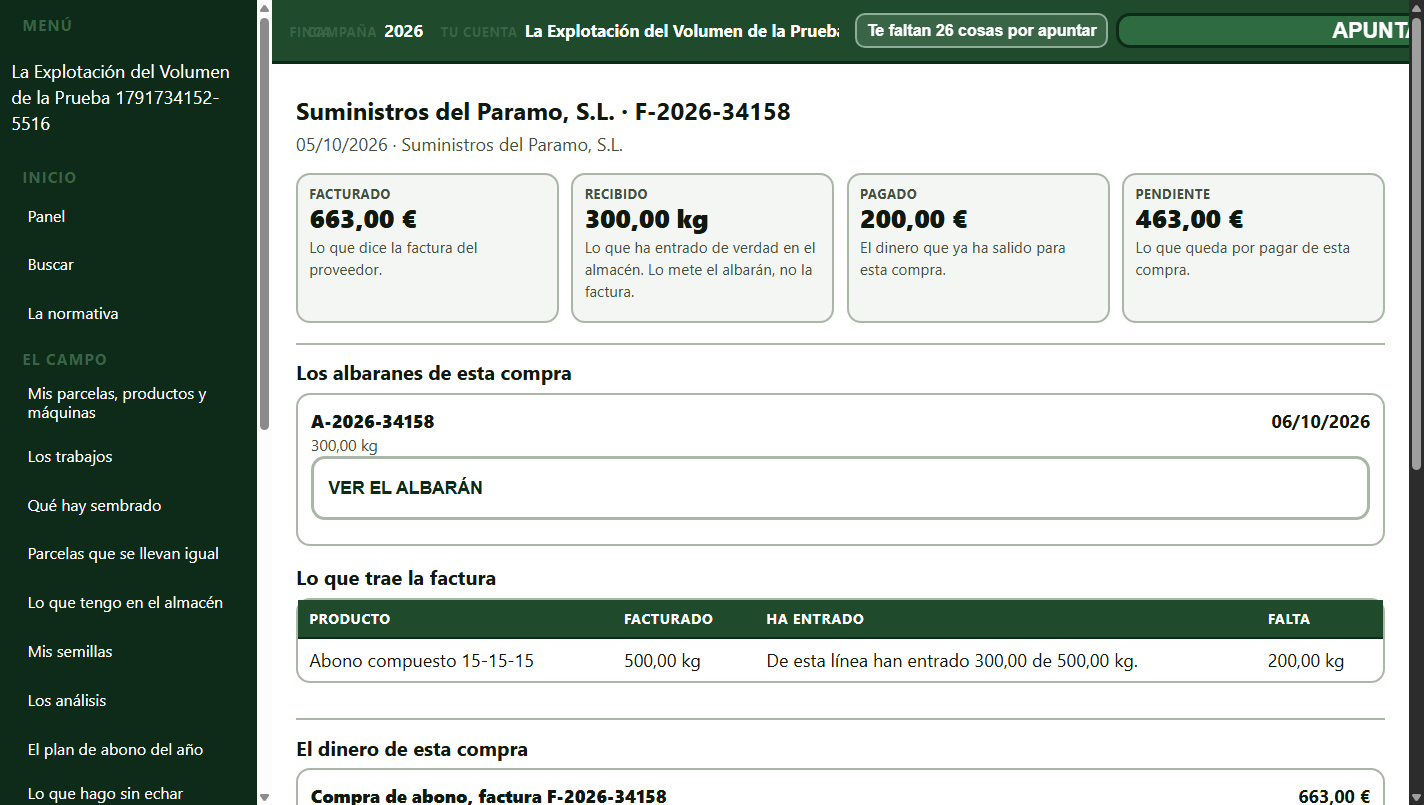
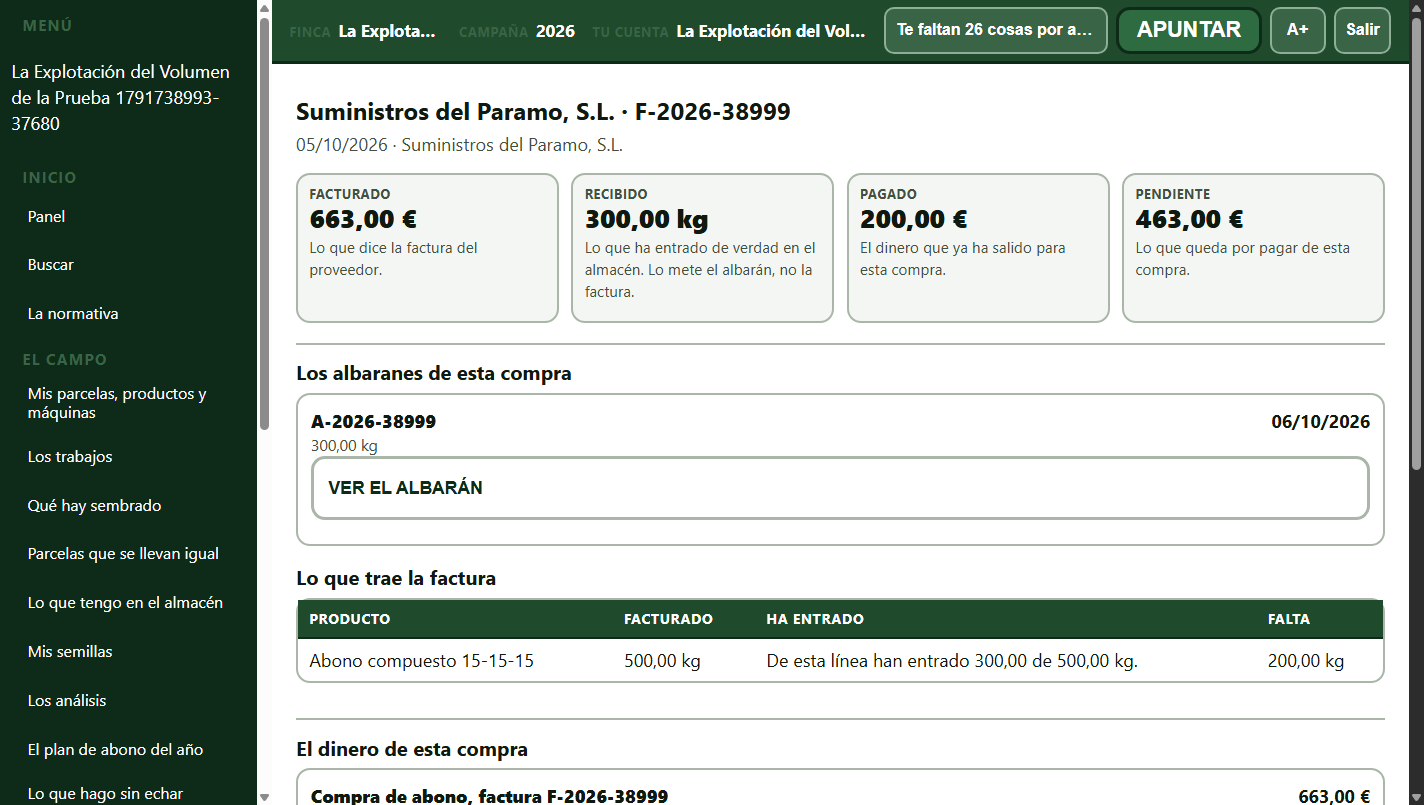
CRM-00: la barra de escritorio deja de cortar acciones. La medicion de visibilidad ahora exige el rectangulo entero dentro de la ventana y de los ancestros que recortan, y con ella queda reproducido el defecto: boton-principal estirado a 536px por el flex del movil empujaba A+ y Salir fuera; botones

diff --git a/backend/web/estilos.css b/backend/web/estilos.css
@@ -1713,9 +1713,12 @@ div.tarjeta:active {
 
   /* El botón de apuntar, en la barra: es la acción que más se usa y está siempre a la vista. */
   .marco .barra-acciones .boton {
-    /* 2.9rem eran ~46 px y, con el relleno, sacaban la barra de 64: **2.2rem cabe** y sigue siendo cómodo con
-       el ratón, que es como se usa esta barra (07/10/2026). */
-    min-height: 2.2rem;
+    /* **2,9 rem, que es lo que dice el diseño** (CRM-00, 11/10/2026). Aquí ponía 2,2 rem —unos 35 px— con
+       este motivo escrito: «2.9rem eran ~46 px y, con el relleno, sacaban la barra de 64». Medido hoy: el
+       relleno de esta barra es 0,2rem por arriba y por abajo, así que **46 + 6,4 = 52,4 y cabe en los 64**.
+       Y `DESIGN.md` es explícito: «los botones de la barra… miden 2,9 rem (unos 46 px)… **no se baja de
+       40**». Los 35 px de antes estaban por debajo de ese suelo, y el agricultor tiene entre 50 y 70 años. */
+    min-height: 2.9rem;
     /* El rótulo de un botón no se parte en varias líneas: eso es lo que lo hacía alto (07/10/2026). */
     white-space: nowrap;
     margin: 0;
@@ -1723,9 +1726,40 @@ div.tarjeta:active {
     justify-content: center;
   }
 
-  /* La letra grande y el salir: siguen ahí, más pequeños porque se pulsan con el ratón. */
+  /* **Y no se estira** (CRM-00, 11/10/2026). Medido: `APUNTAR` mide **536 px** dentro de la barra porque
+     `.boton-principal` trae del móvil `flex: 1 1 45%` —allí la acción principal ocupa el ancho de la
+     pantalla, que es lo que el diseño pide para el pulgar—. En la barra eso no: 536 px es más que el hueco
+     que queda y era **lo que empujaba «A+» y «Salir» fuera de la ventana**. Aquí manda su etiqueta. */
+  .marco .barra-acciones .boton-principal {
+    flex: 0 0 auto;
+    width: auto;
+    min-width: 0;
+  }
+
+  /* **Un nombre largo se recorta; una acción, nunca** (CRM-00, 11/10/2026). La barra tiene que caber con
+     cualquier nombre de explotación o de cuenta: lo que cede es el nombre —con puntos suspensivos—, y las
+     acciones se quedan enteras dentro de la pantalla. El `title` y el `aria-label` conservan el texto
+     completo para quien lo necesite. */
+  .marco .barra-datos .barra-valor,
+  .marco .barra-datos .boton-letra {
+    max-width: 12rem;
+    overflow: hidden;
+    text-overflow: ellipsis;
+  }
+
+  /* Y el aviso de lo pendiente —«Te faltan 26 cosas por apuntar»— es un botón, no un párrafo: se recorta
+     antes que empujar la barra. Lo que dice entero sigue estando en su `aria-label`. */
   .marco .barra-acciones .boton-letra {
-    min-height: 2.2rem;
+    max-width: 14rem;
+    overflow: hidden;
+    text-overflow: ellipsis;
+  }
+
+  /* La letra grande y el salir: **46 px de alto**, como el resto de la barra (CRM-00, 11/10/2026). Estaban
+     en 2,2rem —35 px— por lo mismo que el botón principal, y con el mismo cálculo: 46 + el relleno de la
+     barra cabe en sus 64 px. `DESIGN.md` no baja de 40. */
+  .marco .barra-acciones .boton-letra {
+    min-height: 2.9rem;
     margin: 0;
     /* **Recortar, no envolver** (07/10/2026): este boton lleva el **nombre de la finca**, y con uno de 48
        caracteres se partia en varias lineas: medía **112 px** y era lo unico que mantenia la barra por encima

diff --git a/backend/scripts/comprobar_la_ficha_de_la_compra_en_el_navegador.py b/backend/scripts/comprobar_la_ficha_de_la_compra_en_el_navegador.py
@@ -27,6 +27,7 @@ from __future__ import annotations
 import base64
 import json
 import pathlib
+import struct
 import sys
 import time
 
@@ -178,11 +179,97 @@ def _la_compra_de_la_prueba(token: str) -> int:
     return factura_id
 
 
-def captura(nav: NavegadorDeVerdad, nombre: str) -> pathlib.Path:
+# **La visibilidad, de verdad** (11/10/2026, CRM-00). Se usa desde todas las comprobaciones de pantalla.
+#
+# POR QUÉ ESTÁ AQUÍ Y NO DENTRO DE CADA CONSULTA. La comprobación que había daba por «visible» un control
+# con tal de que tuviera tamaño y no estuviera en `display: none`, y **eso no es visible**: el revisor lo
+# demostró midiendo —en la captura de escritorio había controles **fuera de la ventana** y la prueba los
+# contaba como a la vista—. Un rectángulo de 120 px que empieza en 1400 con la ventana de 1440 está
+# cortado; uno que empieza en 1500 no se ve en absoluto. Lo mismo vale para un ancestro con `overflow:
+# hidden`: el elemento existe, mide, y no se ve.
+#
+# Así que «visible y utilizable» es aquí: tiene tamaño, no está oculto por estilo, **y su rectángulo entero
+# cabe dentro de la ventana y dentro de todos los ancestros que recortan**. Es la definición que el
+# encargo pide («un rectángulo con ancho positivo fuera de la pantalla no es visible»).
+LA_VISIBILIDAD = """
+    const totalmenteVisible = (el) => {
+        if (!el) return {visible: false, motivo: 'no existe'};
+        const estilo = getComputedStyle(el);
+        if (estilo.display === 'none') return {visible: false, motivo: 'display none'};
+        if (estilo.visibility === 'hidden') return {visible: false, motivo: 'visibility hidden'};
+        if (Number(estilo.opacity) === 0) return {visible: false, motivo: 'opacidad 0'};
+        const c = el.getBoundingClientRect();
+        if (c.width <= 0 || c.height <= 0) return {visible: false, motivo: 'sin tamano'};
+        // **La ventana**: el rectángulo entero, no solo su esquina.
+        if (c.left < -0.5 || c.top < -0.5 || c.right > window.innerWidth + 0.5 || c.bottom > window.innerHeight + 0.5) {
+            return {
+                visible: false,
+                motivo: 'fuera de la ventana',
+                caja: [Math.round(c.left), Math.round(c.top), Math.round(c.right), Math.round(c.bottom)],
+                ventana: [window.innerWidth, window.innerHeight],
+            };
+        }
+        // **Y los ancestros que recortan**, subiendo por el árbol: un `overflow: hidden` corta igual que el
+        // borde de la pantalla, y es justo lo que hace la barra con el nombre largo.
+        for (let padre = el.parentElement; padre; padre = padre.parentElement) {
+            const suyo = getComputedStyle(padre);
+            const recorta = ['hidden', 'clip', 'auto', 'scroll'].includes(suyo.overflowX) ||
+                             ['hidden', 'clip', 'auto', 'scroll'].includes(suyo.overflowY);
+            if (!recorta) continue;
+            const p = padre.getBoundingClientRect();
+            if (c.left < p.left - 0.5 || c.right > p.right + 0.5 || c.top < p.top - 0.5 || c.bottom > p.bottom + 0.5) {
+                return {visible: false, motivo: 'recortado por ' + (padre.className || padre.tagName), };
+            }
+        }
+        return {visible: true, motivo: '', caja: [Math.round(c.left), Math.round(c.top), Math.round(c.right), Math.round(c.bottom)]};
+    };
+"""
+
+
+def la_visibilidad(nav: NavegadorDeVerdad, selector: str) -> dict:
+    """Qué dice la visibilidad de verdad sobre esos controles: uno a uno, con su motivo si no se ven."""
+    return nav.evaluar(
+        "(() => {"
+        + LA_VISIBILIDAD
+        + f"""
+        const controles = [...document.querySelectorAll({json.dumps(selector)})];
+        return {{
+            ventana: [window.innerWidth, window.innerHeight],
+            cuantos: controles.length,
+            suyos: controles.map((el) => {{
+                const suyo = totalmenteVisible(el);
+                return {{
+                    texto: (el.innerText || el.value || el.getAttribute('aria-label') || '').replace(/\\s+/g, ' ').trim().slice(0, 40),
+                    accion: el.dataset ? (el.dataset.accion || '') : '',
+                    visible: suyo.visible,
+                    motivo: suyo.motivo,
+                    caja: suyo.caja || null,
+                }};
+            }}),
+        }};
+    }})()"""
+    )
+
+
+def captura(nav: NavegadorDeVerdad, nombre: str) -> dict:
+    """La captura, **diciendo de qué tamaño es y con qué ventana se hizo** (CRM-00, 11/10/2026).
+
+    Antes devolvía solo la ruta y el guion decía «captura del móvil» sin más: la ventana del navegador de
+    Windows no baja de ~500 px, así que una captura «de 390» salía de 500 y nadie se enteraba hasta que el
+    revisor midió el PNG. Ahora se devuelven las dos cosas —lo que dice la página (`innerWidth`) y lo que
+    mide la imagen—, para poder contrastarlas.
+    """
     CARPETA.mkdir(parents=True, exist_ok=True)
     destino = CARPETA / f"compra-{nombre}.png"
-    destino.write_bytes(base64.b64decode(nav.orden("Page.captureScreenshot", {"format": "png"})["data"]))
-    return destino
+    crudo = base64.b64decode(nav.orden("Page.captureScreenshot", {"format": "png"})["data"])
+    destino.write_bytes(crudo)
+    ancho_imagen, alto_imagen = struct.unpack(">II", crudo[16:24])
+    ventana = nav.evaluar("[window.innerWidth, window.innerHeight]")
+    return {
+        "ruta": destino,
+        "ventana": ventana,
+        "imagen": [ancho_imagen, alto_imagen],
+    }
 
 
 def el_texto(nav: NavegadorDeVerdad) -> str:
@@ -316,7 +403,10 @@ def main() -> int:
         )
 
         movil = captura(nav, "movil")
-        print(f"  (captura del movil: {movil})")
+        print(
+            f"  (captura del movil: {movil['ruta'].name}, ventana {movil['ventana']}, "
+            f"imagen {movil['imagen']})"
+        )
 
         print("\n4) **Ningun importe sin coma decimal ni moneda** (lo pidio David el 09/10/2026)")
         # Un importe con punto y dos decimales es el texto de máquina que se colaba en la pantalla
@@ -412,31 +502,17 @@ def main() -> int:
             )
 
             # **La barra de arriba, entera y sin acciones ocultas.** David vio la barra cortada en la
-            # captura. Se comprueba la cabecera que de verdad se usa a este ancho (el armazón de escritorio
-            # a partir de 64rem, la de móvil por debajo): ni se sale del ancho, ni recorta su contenido, ni
-            # esconde ningún botón.
+            # captura y el revisor lo confirmó midiendo: había controles **fuera de la ventana** que la
+            # comprobación anterior contaba como visibles, porque solo miraba que tuvieran tamaño. Aquí se
+            # mide lo que pidió el encargo: el **rectángulo completo** de cada control, dentro de la ventana
+            # y dentro de los ancestros que recortan (`LA_VISIBILIDAD`). Un rectángulo con ancho positivo
+            # fuera de la pantalla **no** es visible.
             la_barra = nav.evaluar(
-                """(() => {
-                    // **`offsetParent` NO sirve aquí** (09/10/2026, y costó una medición falsa): la barra
-                    // del armazón de escritorio es `position: fixed`, y en un elemento fijo `offsetParent`
-                    // vale `null` **por especificación**. Con aquella comprobación, a 1440 px la barra de
-                    // verdad salía «oculta» y el guion medía la cabecera del móvil —que allí mide 0 px—,
-                    // diciendo que había 0 botones a la vista. Se mide con la caja y el estilo calculado,
-                    // que es lo que de verdad dice si algo se ve.
-                    const visible = (el) => {
-                        if (!el) return false;
-                        const c = el.getBoundingClientRect();
-                        const e = getComputedStyle(el);
-                        return (
-                            c.width > 0 &&
-                            c.height > 0 &&
-                            e.display !== 'none' &&
-                            e.visibility !== 'hidden' &&
-                            Number(e.opacity) > 0
-                        );
-                    };
+                "(() => {"
+                + LA_VISIBILIDAD
+                + """
                     const deEscritorio = document.querySelector('.marco .barra');
-                    const usaEscritorio = visible(deEscritorio);
+                    const usaEscritorio = totalmenteVisible(deEscritorio).visible;
                     const caja = usaEscritorio ? deEscritorio : document.querySelector('.cabecera');
                     if (!caja) return {hay: false};
                     const datos = caja.querySelector('.barra-datos') || caja;
@@ -444,10 +520,8 @@ def main() -> int:
                     const botones = [...(acciones ? acciones.querySelectorAll('button, a') : [])];
                     // **Qué se recorta, y cuál no** (09/10/2026). La casa tiene decidido que, si algo tiene
                     // que ceder en esta barra, ceda **el nombre de la explotación**, y nunca la campaña ni
-                    // la cuenta ni las acciones (está escrito en el CSS y lo mide
-                    // `scripts/medir_la_barra_de_escritorio.py`). Así que no basta con «hay algo cortado»:
-                    // hay que decir **qué**, porque recortar el nombre es lo previsto y recortar la campaña
-                    // es el defecto que David vio en la captura.
+                    // la cuenta ni las acciones. Así que no basta con «hay algo cortado»: hay que decir
+                    // **qué**.
                     const trozos = [...datos.querySelectorAll('.barra-dato')].map((d) => ({
                         rotulo: ((d.querySelector('.barra-rotulo') || {}).innerText || '').trim(),
                         recortado: d.scrollWidth > d.clientWidth + 1,
@@ -455,15 +529,53 @@ def main() -> int:
                     return {
                         hay: true,
                         usaEscritorio,
+                        ventana: [window.innerWidth, window.innerHeight],
                         anchoCaja: Math.round(caja.getBoundingClientRect().width),
                         altoCaja: Math.round(caja.getBoundingClientRect().height),
-                        datosRecortados: datos.scrollWidth > datos.clientWidth + 1,
+                        caja: (() => {
+                            const c = caja.getBoundingClientRect();
+                            return [Math.round(c.left), Math.round(c.top), Math.round(c.right), Math.round(c.bottom)];
+                        })(),
                         trozos,
-                        botones: botones.length,
-                        botonesVisibles: botones.filter(visible).length,
+                        acciones: botones.map((b) => {
+                            const suyo = totalmenteVisible(b);
+                            return {
+                                texto: (b.innerText || '').replace(/\\s+/g, ' ').trim().slice(0, 30),
+                                visible: suyo.visible,
+                                motivo: suyo.motivo,
+                                caja: suyo.caja || null,
+                            };
+                        }),
                         texto: (caja.innerText || '').replace(/\\s+/g, ' ').trim().slice(0, 120),
                     };
                 })()"""
+            )
+            print(f"     (barra: {en_consola(la_barra)})")
+            comprobar(bool(la_barra.get("hay")), f"a {ancho} px hay una barra de arriba")
+            # **Cada acción, entera dentro de la ventana.** Esta es la comprobación que sustituye a contar
+            # cajas: se exige el rectángulo completo, así que un control cortado por el borde derecho o
+            # sacado de la pantalla cuenta como lo que es.
+            las_acciones = la_barra.get("acciones", [])
+            cortadas = [
+                f"{accion['texto'] or '(sin texto)'} [{accion['motivo']}] {accion['caja']}"
+                for accion in las_acciones
+                if not accion["visible"]
+            ]
+            comprobar(
+                bool(las_acciones),
+                f"y la barra tiene acciones ({[a['texto'] for a in las_acciones]})",
+            )
+            comprobar(
+                not cortadas,
+                f"y todas sus acciones estan enteras dentro de la ventana "
+                f"({len(las_acciones) - len(cortadas)} de {len(las_acciones)}; cortadas: {cortadas})",
+            )
+            # Y **la barra entera** también: si la propia barra se sale, algo de dentro está fuera aunque
+            # sus botones quepan (el nombre, la campaña o la cuenta).
+            dentro = la_barra.get("caja") or [0, 0, 0, 0]
+            comprobar(
+                dentro[0] >= -0.5 and dentro[2] <= (la_barra.get("ventana") or [0, 0])[0] + 0.5,
+                f"y la barra entera cabe en la ventana (barra {dentro}, ventana {la_barra.get('ventana')})",
             )
             print(f"     (barra: {en_consola(la_barra)})")
             comprobar(bool(la_barra.get("hay")), f"a {ancho} px hay una barra de arriba")
@@ -502,16 +614,52 @@ def main() -> int:
                     "     (recortado por el nombre largo: "
                     f"{[t['rotulo'] for t in la_barra.get('trozos', []) if t['recortado']]})"
                 )
-            else:
-                comprobar(
-                    not la_barra.get("datosRecortados"),
-                    f"y la cabecera que se usa a {ancho} px no recorta nada",
-                )
+            # Y las acciones, ya comprobadas arriba una a una con su rectángulo entero. Aquí se deja dicho
+            # cuántas son, porque el encargo pide poder **activarlas**, no solo verlas: se cuentan las que
+            # además se pueden pulsar (no `disabled`) y tienen área de toque suficiente.
+            cuantas = len(las_acciones)
+            pulsables = nav.evaluar(
+                "(() => {"
+                + LA_VISIBILIDAD
+                + """
+                    // **La barra que de verdad se usa a este ancho**, que es la misma regla que arriba: a 1024
+                    // el armazón enseña la cabecera compacta, y medir los botones de la barra escondida daba
+                    // cuatro botones de 0×0 —un fallo del instrumento, no de la pantalla— (CRM-00).
+                    const deEscritorio = document.querySelector('.marco .barra');
+                    const caja = totalmenteVisible(deEscritorio).visible
+                        ? deEscritorio
+                        : document.querySelector('.cabecera');
+                    if (!caja) return {cuantas: 0, pequenas: [], deshabilitadas: []};
+                    const acciones = caja.querySelector('.barra-acciones') || caja.querySelector('.cabecera-botones');
+                    const botones = [...(acciones ? acciones.querySelectorAll('button, a') : [])];
+                    const c = (b) => {
+                        const r = b.getBoundingClientRect();
+                        return [Math.round(r.width), Math.round(r.height)];
+                    };
+                    return {
+                        cuantas: botones.length,
+                        suyos: botones.map((b) => ({
+                            texto: (b.innerText || '').replace(/\\s+/g, ' ').trim().slice(0, 26),
+                            clase: b.className,
+                            ancho: c(b)[0],
+                            alto: c(b)[1],
+                        })),
+                        pequenas: botones.filter((b) => c(b)[0] < 44 || c(b)[1] < 44).map((b) => [
+                            (b.innerText || '').trim().slice(0, 20),
+                            c(b),
+                        ]),
+                        deshabilitadas: botones.filter((b) => b.disabled).map((b) => (b.innerText || '').trim()),
+                    };
+                })()"""
+            )
+            print(f"     (acciones: {en_consola(pulsables)})")
             comprobar(
-                la_barra.get("botones", 0) > 0
-                and la_barra.get("botones") == la_barra.get("botonesVisibles"),
-                f"y no esconde ninguna accion ({la_barra.get('botonesVisibles')} de "
-                f"{la_barra.get('botones')} a la vista)",
+                not pulsables.get("deshabilitadas"),
+                f"y ninguna accion esta deshabilitada ({pulsables.get('deshabilitadas')})",
+            )
+            comprobar(
+                not pulsables.get("pequenas"),
+                f"y todas tienen area de toque (menos de 44 px: {pulsables.get('pequenas')})",
             )
 
             # **Y las líneas, en tabla**: es lo que pidió David («líneas en tabla»). Una tabla de verdad,
@@ -554,7 +702,10 @@ def main() -> int:
 
             print(f"     (texto de la barra: {en_consola(la_barra.get('texto'))})")
             destino = captura(nav, "escritorio" if ancho == 1440 else f"escritorio-{ancho}")
-            print(f"  (captura a {ancho}: {destino})")
+            print(
+                f"  (captura a {ancho}: {destino['ruta'].name}, ventana {destino['ventana']}, "
+                f"imagen {destino['imagen']})"
+            )
 
     print(f"\nComprobaciones: {COMPROBACIONES}   Fallos: {FALLOS}")
     print(f"Capturas en {CARPETA}")

diff --git a/docs/CONTRATO_IMPLEMENTACION_CRM.md b/docs/CONTRATO_IMPLEMENTACION_CRM.md
@@ -19,7 +19,7 @@ temporal y documentos ficticios.
 | El reenvío de la factura | `backend/tests/test_la_factura_reenviada_no_se_duplica.py` | **17 pruebas** |
 | La migración del reenvío, sobre copia | `backend/tests/test_la_migracion_del_reenvio.py` | **3 pruebas** |
 | La ficha, en pruebas | `backend/tests/test_la_ficha_de_la_compra.py` | **11 pruebas** |
-| La suite entera | `python -m pytest tests -q` / `node --test "tests_js/*.test.js"` | **4736 · 0** de Python y **1080 · 0** de JavaScript |
+| La suite entera | `python -m pytest tests -q` / `node --test "tests_js/*.test.js"` | **4746 · 0** de Python y **1081 · 0** de JavaScript |
 
 ### La historia, aparte, para que nadie lea una cifra vieja como el estado
 
